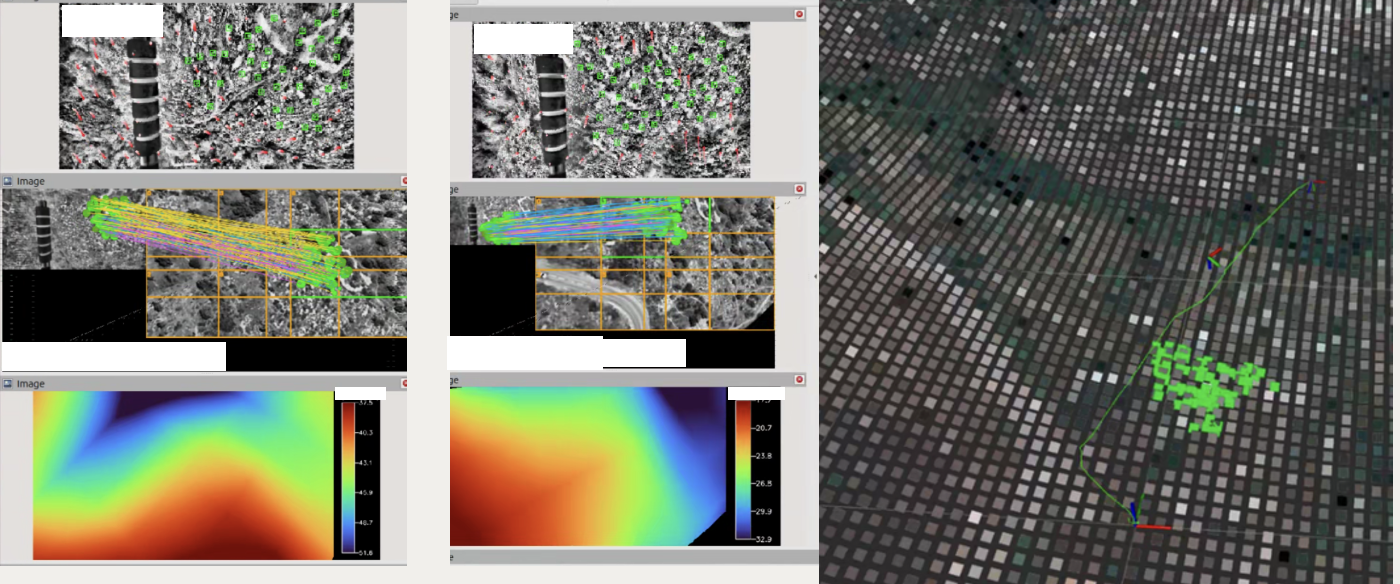
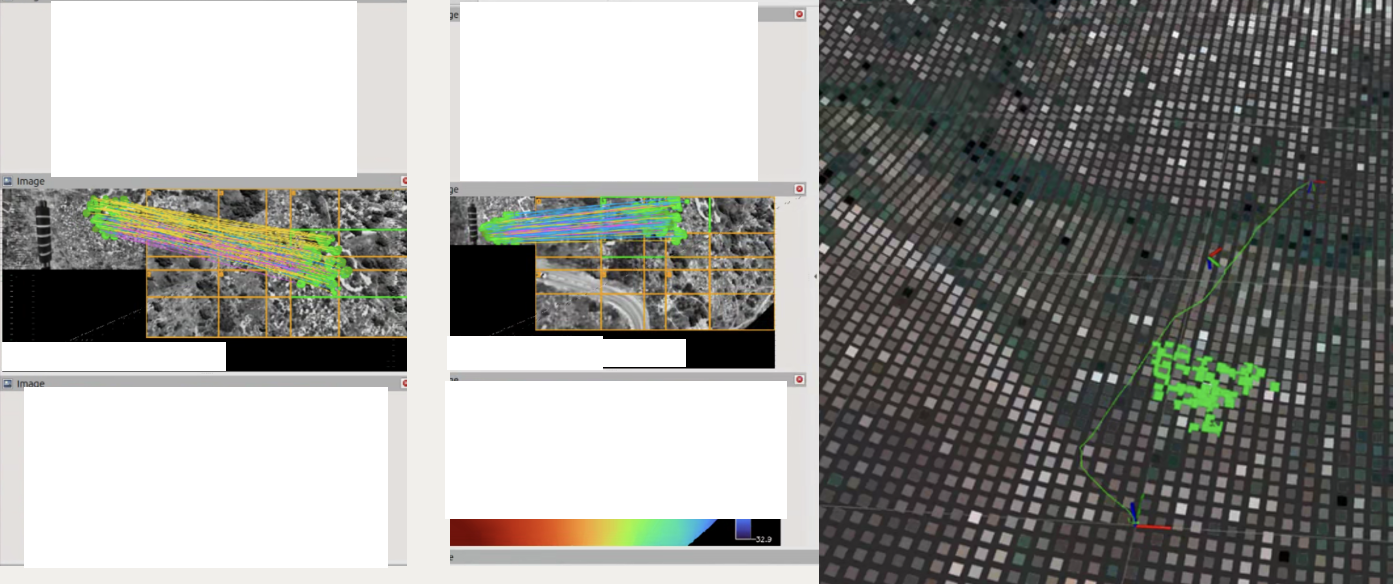
modified images

diff --git a/lib/siteCopy.ts b/lib/siteCopy.ts
@@ -175,7 +175,7 @@ export const siteCopy = {
     },
     hero: {
       eyebrow: 'Navigation sans GPS',
-      title: 'Une navigation UAV fiable',
+      title: 'Une navigation UAV robuste',
       titleAccent: 'quand le GPS n’est plus fiable.',
       body:
         'KALGARD Systems développe une technologie de navigation embarquée pour drones opérant dans des environnements GNSS dégradés, brouillés, usurpés ou indisponibles.',
